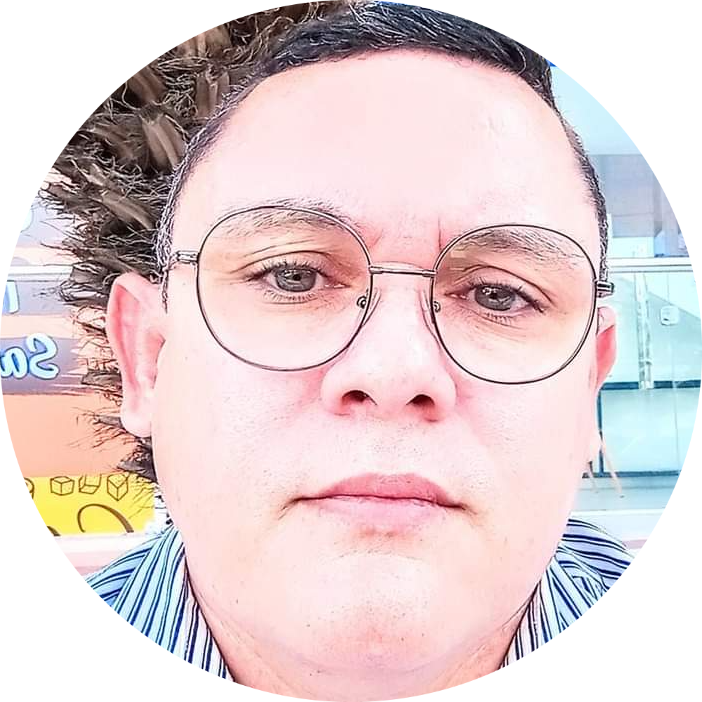
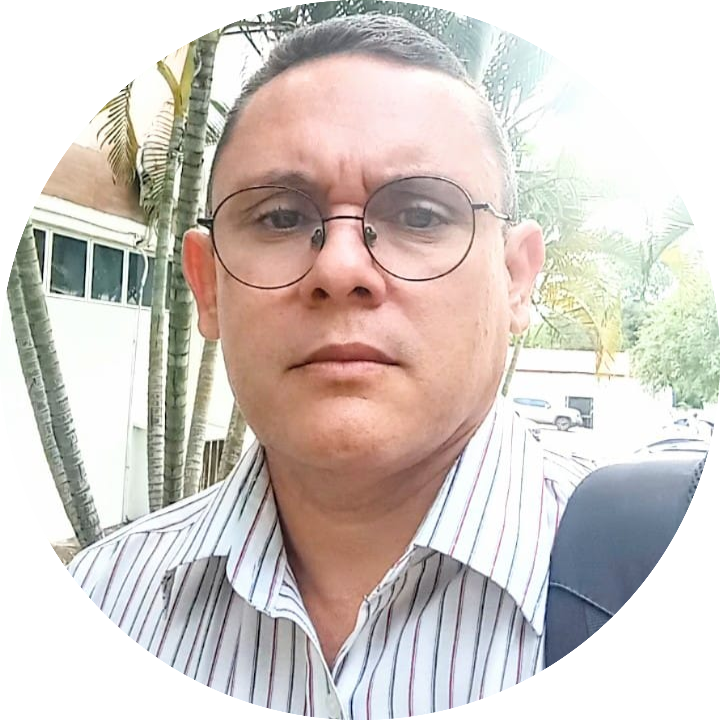
commit2_21_07_2026

diff --git a/public/about/index.html b/public/about/index.html
@@ -138,41 +138,49 @@ a URCA às técnicas de pesquisa que situam-se na fronteira do conhecimento da t
 <body>
   <div class="row">
   <div class="column">
-  <a href="http://lattes.cnpq.br/3280720633645199">Diogo Brito Sobreira</a>
+  <a href="http://lattes.cnpq.br/3280720633645199" target = "_blank">Diogo Brito Sobreira</a>
   <p>Doutor em Economia (UFV)</p>
   <p>Área mãe: Microeconometria</p>
   <img src="/images/diogoCircular.png" width="35%" height="110">
   </div>
   <div class="column">
-  <a href=http://lattes.cnpq.br/8846897044541237> Valdeir Soares Monteiro</a>
+  <a href= "http://lattes.cnpq.br/8846897044541237" target = "_blank"> Valdeir Soares Monteiro</a>
   <p> Doutor em Economia (UFC) </p>
   <p> Área mãe: Finanças</p>
   <img src="/images/valdeirCircular.png" width="35%" height="110">
   </div>
   <div class="column">
-  <a href="http://lattes.cnpq.br/6906677347926569">Helson Gomes de Souza</a>
+  <a href="http://lattes.cnpq.br/6906677347926569" target = "_blank">Helson Gomes de Souza</a>
   <p>Doutor em Economia (UFPB)</p>
   <p>Área mãe: Teoria Econômica</p>
   <img src="/images/helsonCircular.png" width="35%" height="110">
   </div>
   <div class="column">
-  <a href = http://lattes.cnpq.br/0092907266715994> Áydano Ribeiro Leite</a>
+  <a href = "http://lattes.cnpq.br/0092907266715994" target = "_blank"> Áydano Ribeiro Leite</a>
   <p> Doutor em Economia (UFBA) </p>
   <p> Área mãe: Teoria Econômica </p>
   <img src="/images/aydanoCircular.png" width="35%" height="110">
   </div>
   </div>
+  <div class="row" style="display: flex; justify-content: center; text-align: center;">
+  <div class="column">
+    <a href="http://lattes.cnpq.br/1962326036877415" target="_blank">Soraia Araújo Madeira</a>
+    <p>Doutora em Economia (UFV)</p>
+    <p>Área mãe: Microeconometria</p>
+    <img src="/images/soraiaCircular.png" width="35%" height="120" style="display: block; margin: 0 auto;">
+  </div>
+</div>
   <hr>
   <h3 align = "center" > Estudantes de Pós-Graduação</h3>
   <div class="row">
   <div class="column">
-  <a href = http://lattes.cnpq.br/5601554430093470> Anderson Oliveira Brito</a>
-  <p> Mestrando (PPGERU/URCA) </p>
+  <a href = "http://lattes.cnpq.br/5601554430093470"  target = "_blank"> Anderson Oliveira Brito</a>
+  <p> Doutorando (Economia Aplicada - UFV) </p>
   <p> Área mãe: Teoria Econômica </p>
   <img src="/images/andersonCircular.png" width="35%" height="110">
   </div>
   <div class="column">
-  <a href = http://dgp.cnpq.br/dgp/espelhogrupo/811785#> Gabriel Antony Miranda</a>
+  <a href = "http://dgp.cnpq.br/dgp/espelhogrupo/811785#"  target = "_blank"> Gabriel Antony Miranda</a>
   <p> Doutorando (PPGE/UFPB) </p>
   <p> Área mãe: Teoria Econômica </p>
   <img src="/images/gabrielCircular.png" width="35%" height="110">
@@ -182,13 +190,13 @@ a URCA às técnicas de pesquisa que situam-se na fronteira do conhecimento da t
   <h3 align = "center" > Estudantes de Graduação</h3>
   <div class="row">
   <div class="column">
-  <a href = http://lattes.cnpq.br/4254365139373324> Tamires De Aquino Silva</a>
+  <a href = "http://lattes.cnpq.br/4254365139373324" target = "_blank"> Tamires De Aquino Silva</a>
   <p> Graduanda em Economia (URCA) </p>
   <p> Área mãe: Microeconometria </p>
   <img src="/images/tamiresCircular.png" width="35%" height="110">
   </div>
   <div class="column">
-  <a href =  http://lattes.cnpq.br/0851677836331415> Jennifer de Andrade Freires</a>
+  <a href =  "http://lattes.cnpq.br/0851677836331415" target = "_blank"> Jennifer de Andrade Freires</a>
   <p> Graduanda em Economia (URCA) </p>
   <p> Área mãe: Teoria Econômica </p>
   <img src="/images/jenniferCircular.png" width="35%" height="110">

diff --git a/public/page/3/index.html b/public/page/3/index.html
@@ -58,8 +58,11 @@
     
     
     
-      
-      
+    
+    
+  
+    
+    
     
     
     
@@ -67,26 +70,11 @@
     
     
     
-      
-      
-    
     
     
   
     
     
-    
-      
-      
-    
-    
-    
-  
-    
-    
-    
-      
-      
     
     
     

diff --git a/content/about.md b/content/about.md
@@ -49,41 +49,53 @@ a URCA às técnicas de pesquisa que situam-se na fronteira do conhecimento da t
 <body>
   <div class="row">
   <div class="column">
-  <a href="http://lattes.cnpq.br/3280720633645199">Diogo Brito Sobreira</a>
+  <a href="http://lattes.cnpq.br/3280720633645199" target = "_blank">Diogo Brito Sobreira</a>
   <p>Doutor em Economia (UFV)</p>
   <p>Área mãe: Microeconometria</p>
   <img src="/images/diogoCircular.png" width="35%" height="110">
   </div>
   <div class="column">
-  <a href=http://lattes.cnpq.br/8846897044541237> Valdeir Soares Monteiro</a>
+  <a href= "http://lattes.cnpq.br/8846897044541237" target = "_blank"> Valdeir Soares Monteiro</a>
   <p> Doutor em Economia (UFC) </p>
   <p> Área mãe: Finanças</p>
   <img src="/images/valdeirCircular.png" width="35%" height="110">
   </div>
   <div class="column">
-  <a href="http://lattes.cnpq.br/6906677347926569">Helson Gomes de Souza</a>
+  <a href="http://lattes.cnpq.br/6906677347926569" target = "_blank">Helson Gomes de Souza</a>
   <p>Doutor em Economia (UFPB)</p>
   <p>Área mãe: Teoria Econômica</p>
   <img src="/images/helsonCircular.png" width="35%" height="110">
   </div>
   <div class="column">
-  <a href = http://lattes.cnpq.br/0092907266715994> Áydano Ribeiro Leite</a>
+  <a href = "http://lattes.cnpq.br/0092907266715994" target = "_blank"> Áydano Ribeiro Leite</a>
   <p> Doutor em Economia (UFBA) </p>
   <p> Área mãe: Teoria Econômica </p>
   <img src="/images/aydanoCircular.png" width="35%" height="110">
   </div>
   </div>
+  
+  
+  <div class="row" style="display: flex; justify-content: center; text-align: center;">
+  <div class="column">
+    <a href="http://lattes.cnpq.br/1962326036877415" target="_blank">Soraia Araújo Madeira</a>
+    <p>Doutora em Economia (UFV)</p>
+    <p>Área mãe: Microeconometria</p>
+    <img src="/images/soraiaCircular.png" width="35%" height="120" style="display: block; margin: 0 auto;">
+  </div>
+</div>
+  
+  
   <hr>
   <h3 align = "center" > Estudantes de Pós-Graduação</h3>
   <div class="row">
   <div class="column">
-  <a href = http://lattes.cnpq.br/5601554430093470> Anderson Oliveira Brito</a>
-  <p> Mestrando (PPGERU/URCA) </p>
+  <a href = "http://lattes.cnpq.br/5601554430093470"  target = "_blank"> Anderson Oliveira Brito</a>
+  <p> Doutorando (Economia Aplicada - UFV) </p>
   <p> Área mãe: Teoria Econômica </p>
   <img src="/images/andersonCircular.png" width="35%" height="110">
   </div>
   <div class="column">
-  <a href = http://dgp.cnpq.br/dgp/espelhogrupo/811785#> Gabriel Antony Miranda</a>
+  <a href = "http://dgp.cnpq.br/dgp/espelhogrupo/811785#"  target = "_blank"> Gabriel Antony Miranda</a>
   <p> Doutorando (PPGE/UFPB) </p>
   <p> Área mãe: Teoria Econômica </p>
   <img src="/images/gabrielCircular.png" width="35%" height="110">
@@ -93,13 +105,13 @@ a URCA às técnicas de pesquisa que situam-se na fronteira do conhecimento da t
   <h3 align = "center" > Estudantes de Graduação</h3>
   <div class="row">
   <div class="column">
-  <a href = http://lattes.cnpq.br/4254365139373324> Tamires De Aquino Silva</a>
+  <a href = "http://lattes.cnpq.br/4254365139373324" target = "_blank"> Tamires De Aquino Silva</a>
   <p> Graduanda em Economia (URCA) </p>
   <p> Área mãe: Microeconometria </p>
   <img src="/images/tamiresCircular.png" width="35%" height="110">
   </div>
   <div class="column">
-  <a href =  http://lattes.cnpq.br/0851677836331415> Jennifer de Andrade Freires</a>
+  <a href =  "http://lattes.cnpq.br/0851677836331415" target = "_blank"> Jennifer de Andrade Freires</a>
   <p> Graduanda em Economia (URCA) </p>
   <p> Área mãe: Teoria Econômica </p>
   <img src="/images/jenniferCircular.png" width="35%" height="110">